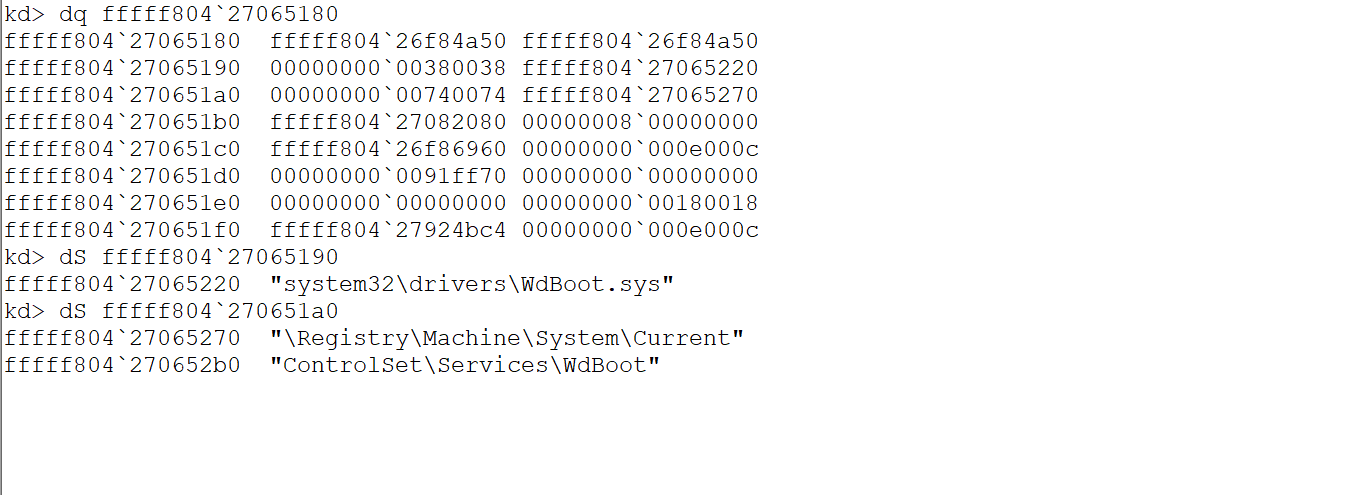
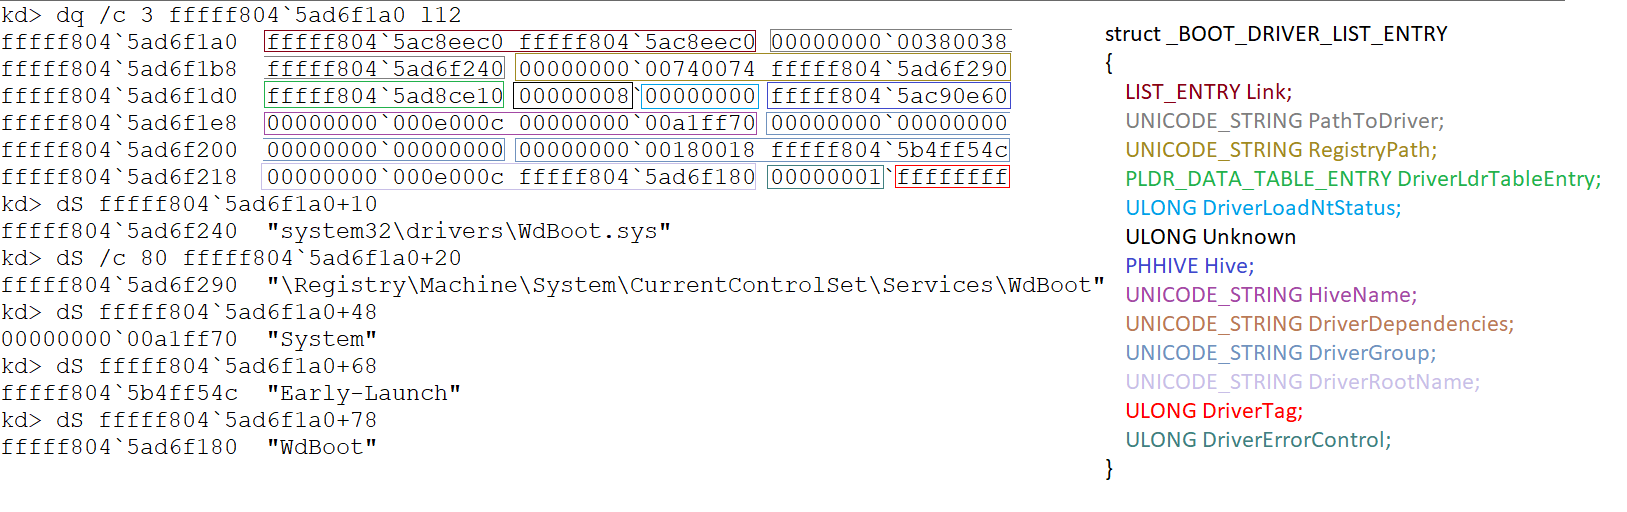
Update Image BootDriverEntry

Changed region(s): [[0.0, 0.0, 0.9832, 0.9091], [0.6759, 0.0303, 0.891, 0.0909], [0.6759, 0.7879, 0.8603, 0.8788]]

diff --git a/content/posts/loadDrivers.md b/content/posts/loadDrivers.md
@@ -71,7 +71,8 @@ Por ultimo se van a cargar los Drivers de los cuales *ntoskrnl.exe* y *hal.dll* 
 > Os voy a decir una tecnica que os va a salvar la vida si vais a debugear el Bootloader. Todos estos modulos han sido cargados pero tanto la llamada `OslLoadImage` como la llamada `OslLoadDrivers` no cargan los simbolos (Es decir no llaman a `DbgLoadImageSymbols`) por tanto no tendremos los simbolos de ninguno de estos modulos, y la verdad que los simbolos del modulo **ntoskrnl** vienen bastante bien 🤣. Pero WinDBG nos da la posibilidad de cargar los simbolos y como sabemos la base (La podemos obtener del `LOADER_PARAMETER_BLOCK` podemos cargar los simbolos que queramos. 
 
 > El comando es `.reload /f /i [NombreDelModulo]=[BaseDelModulo]`
-> <video width="640" height="480" controls>
+> 
+> <video style="margin-top:10px" width="100%" controls>
   <source src="/videos/oslLoadDrivers/video_reload.mov" type="video/mp4">
 </video>
 
@@ -160,12 +161,13 @@ Una vez esta funcion acaba ya queda poco para terminar con el proceso, se obtien
 
 ![alt img](/images/oslLoadDrivers/add_data_table_entry.jpg "Add entry LDR_TABLE")
 
-Finalmente se van a colocar el *Flink* y el *Blink* de la ```LIST_ENTRY``` de forma que apunten a la entrada anterior y al principio de la la lista y se va a proceder a cargar los imports del Driver que se ha cargado. De esto se va a encargar la funcion ```LdrpLoadImports``` que no voy a detallar porque funciona igual en Userland, para que os hagais una idea obtiene el ```IMAGE_DATA_DIRECTORY``` de la tabla de imports y con esto obtiene el ```IMAGE_IMPORT_DESCRIPTOR``` y a continuacion itera llamando a ```LdrpLoadImage``` para cargar la imagen y a ```BlLdrBindImportReferences``` para enlazar los imports al binario y eso seria todo, ahora se empezaria a salir de las funciones hasta volver a la funcion ```OslLoadDrivers``` que es la encargada  de asignar los campos *DriverLoadNtStatus* y se devuelve el *NTSTATUS* correspondiente a la funcion que ha intentado cargar el Driver (En este caso ```OslpLoadAllModules```) 
+Finalmente se van a colocar el *Flink* y el *Blink* de la ```LIST_ENTRY``` de forma que apunten a la entrada anterior y al principio de la la lista y se va a proceder a cargar los imports del Driver que se ha cargado. De esto se va a encargar la funcion ```LdrpLoadImports``` que no voy a detallar porque funciona igual en Userland, para que os hagais una idea obtiene el ```IMAGE_DATA_DIRECTORY``` de la tabla de imports y con esto obtiene el ```IMAGE_IMPORT_DESCRIPTOR``` y a continuacion itera llamando a ```LdrpLoadImage``` para cargar la imagen y a ```BlLdrBindImportReferences``` para enlazar los imports al binario y eso seria todo, ahora se empezaria a salir de las funciones hasta volver a la funcion ```OslLoadDrivers``` que es la encargada  de asignar el campo *DriverLoadNtStatus* y se devuelve el *NTSTATUS* correspondiente a la funcion que ha intentado cargar el Driver (En este caso ```OslpLoadAllModules```) 
 
 Aqui podeis ver como quedaria la estructura _BOOT_DRIVER_LIST_ENTRY una vez se ha cargar el ELAM Driver de Windows:
 
-![alt img](/images/oslLoadDrivers/add_data_table_entry.jpg "Add entry LDR_TABLE")
+![alt img](/images/oslLoadDrivers/boot_driver_entry.jpg "Boot Driver entry")
 
+Siento mis dotes con el Paint, si haceis zoom se ven mejor los colores!! El DriverTag es 0xFFFFFFFF porque el Driver WdBoot no tiene clave DriverTag en el registro.
 
 ## Conclusiones
 
